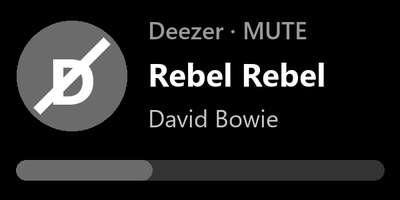
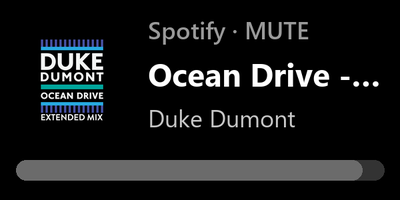
docs: previews with real album art

diff --git a/README.md b/README.md
@@ -6,11 +6,11 @@ Windows media controls (SMTC).
 
 <p>
   <img src="docs/dial-playing.png" width="300" alt="Dial following Spotify with track, artist and volume bar">
-  <img src="docs/dial-muted.png" width="300" alt="Dial following Deezer while muted">
+  <img src="docs/dial-muted.png" width="300" alt="Dial following Spotify while muted">
 </p>
 
-Left: following Spotify at 54%. Right: Deezer muted (renders of the touch-strip layout,
-not photos; with Spotify the disc is replaced by the album art).
+Left: following Spotify at 94%, with the album art Windows reports for the track.
+Right: the same player muted. Renders of the touch-strip layout with real data, not photos.
 
 ## What it does
 
